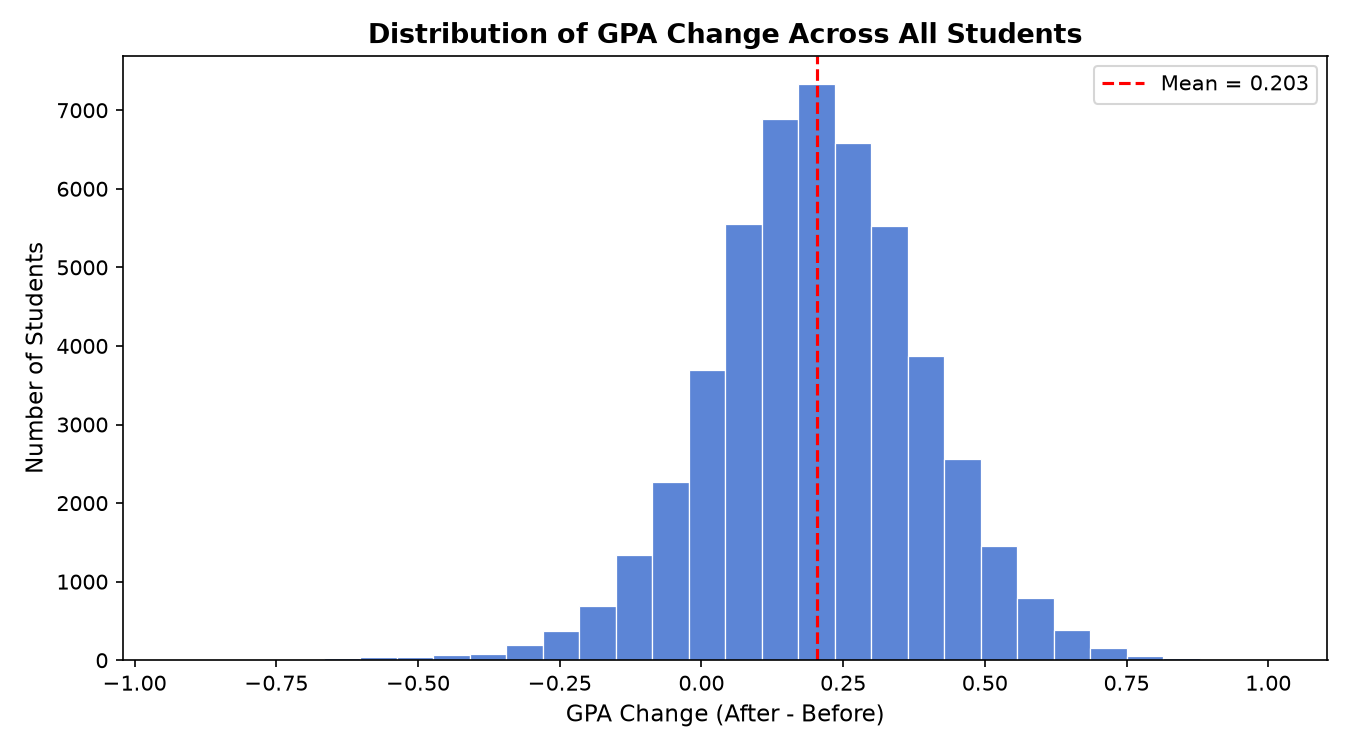
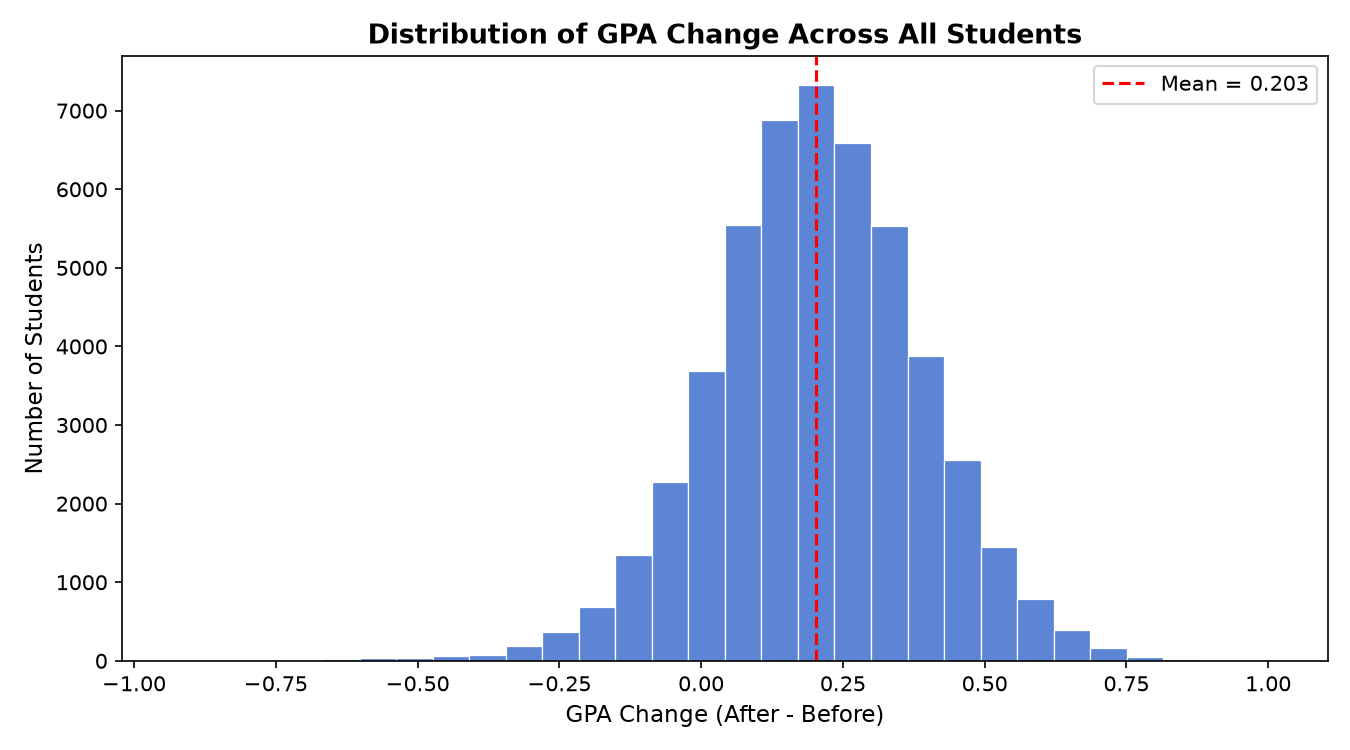
UsageInYrSkillBurnout

diff --git a/data_exploration.py b/data_exploration.py
@@ -1,0 +1,172 @@
+import pandas as pd
+import matplotlib.pyplot as plt
+import matplotlib.ticker as mticker
+import numpy as np
+
+# ======LOAD DATA======
+df = pd.read_csv('data/cleaned_data.csv')
+
+
+# # ======INSPECT DATA======
+# print("Shape:")
+# print(df.shape)
+
+# print("\nInfo:")
+# print(df.info())
+
+# print("\nMissing Values:")
+# print(df.isnull().sum())
+
+# print("\nStatistics:")
+# print(df.describe())
+
+
+
+# # ======CLEAN DATA======
+
+# #Drop duplicates
+# df = df.drop_duplicates()
+
+# #Drop missing values
+# df = df.dropna()
+
+#Clean presemester/post semester gpa (round 2 decmials)
+df['Pre_Semester_GPA'] = df['Pre_Semester_GPA'].round(2)
+df['Post_Semester_GPA'] = df['Post_Semester_GPA'].round(2)
+
+#Clean names with underscores and replace with spaces
+df.columns = df.columns.str.replace('_', ' ')
+df['Institutional Policy'] = df['Institutional Policy'].str.replace('_', ' ')
+
+print()
+print(df.head())    
+print()
+
+# ======PROCESS DATA======
+
+#GPA CHANGE
+df['GPA Change'] = (
+    df['Post Semester GPA']
+    - df['Pre Semester GPA']
+)
+
+#YEAR OF STUDY
+year_gpa = (
+    df.groupby('Year of Study')['GPA Change']
+      .mean()
+      .sort_values(ascending=False)
+)
+
+print(year_gpa)
+print()
+
+#AI SKILL
+ai_skill_gpa = (
+    df.groupby('Prompt Engineering Skill')['GPA Change']
+      .mean()
+)
+ai_skill_gpa = ai_skill_gpa.sort_values(ascending=False)
+
+
+print(ai_skill_gpa)
+print()
+
+#YEAR OF STUDY AND AI SKILL
+year_and_skill = (
+    df.groupby(['Year of Study', 'Prompt Engineering Skill'])['GPA Change']
+      .mean()
+
+)
+year_and_skill = year_and_skill.sort_values()
+
+print(year_and_skill)
+print()
+
+#BURNOUT RISK
+burnout_ai = (
+    df.groupby('Burnout Risk Level')['Weekly GenAI Hours'].mean() 
+)
+burnout_ai = burnout_ai.sort_values(ascending=False)
+
+print(burnout_ai)
+print()
+
+
+
+# ======VISUALIZATION DATA======
+
+# FIGURE 1 - AI Usage vs GPA Change
+plt.figure(figsize=(8, 5))
+
+plt.scatter(
+    df['Weekly GenAI Hours'],
+    df['GPA Change'],
+)
+
+plt.axhline(
+    y=0,
+    color='red',
+    linestyle='--',
+    linewidth=2,
+    label='No GPA Change'
+)
+
+plt.title('AI Usage vs GPA Change')
+plt.xlabel('Weekly AI Hours')
+plt.ylabel('GPA Change')
+plt.tight_layout
+
+plt.show()
+
+# Figure 2 - AVG GPA Change by Year of Study
+plt.figure(figsize=(8, 5), )
+year_gpa.plot(kind='bar', color=['red','blue', 'yellow', 'green', 'orange'])
+plt.title('Average GPA Change by Year of Study')
+plt.xlabel('Year of Study')
+plt.ylabel('Average GPA Change')
+plt.tight_layout()
+plt.show()
+
+# Figure 3 - AI Skill vs GPA Change
+fig, ax= plt.subplots(figsize=(8, 5))
+ai_skill_gpa.plot(kind='bar', color=['blue', 'yellow', 'green'])
+ax.set_title('Average GPA Change by AI Skill')
+ax.set_xlabel('AI Skill')
+ax.set_ylabel('Average GPA Change')
+
+x_labels = ['Advanced', 'Intermediate', 'Beginner']
+ax.set_xticklabels(x_labels)
+
+ax.bar_label(container=ax.containers[0], label_type='edge')
+plt.tight_layout()
+plt.show()
+
+# Figure 4 - Year of Study vs AI Skill
+fig, ax = plt.subplots(figsize=(8, 5))
+year_and_skill.plot(kind='bar', color=['red','yellow', 'blue'])
+ax.set_title('Average GPA Change by Year of Study and AI Skill')
+ax.set_xlabel('Year of Study')
+ax.set_ylabel('Average GPA Change')
+
+
+ax.bar_label(container=ax.containers[0], label_type='edge')
+
+
+plt.tight_layout()
+plt.show()
+
+# Figure 5 - Burnout Risk vs AI Usage
+fig, ax = plt.subplots(figsize=(8, 5))
+burnout_ai.plot(kind='bar', color=['red', 'orange', 'green'])
+ax.set_title('Burnout Risk by Weekly AI U')
+ax.set_xlabel('Burnout Risk')
+ax.set_ylabel('AI Usage Weekly')
+
+x_labels = ['High', 'Medium', 'Low']
+ax.set_xticklabels(x_labels)
+
+ax.bar_label(container=ax.containers[0], label_type='edge')
+
+plt.tight_layout()
+plt.show()
+